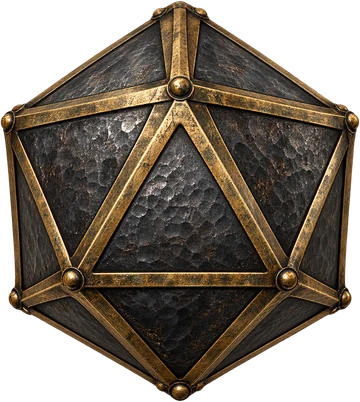
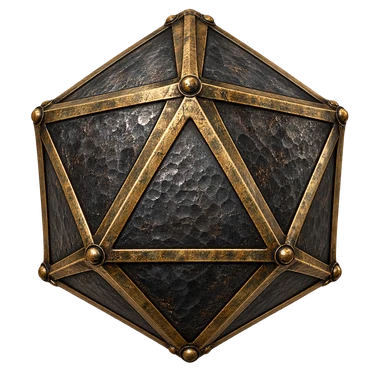
Natural 20 and natural 1 dice: the real art
The supplied gilded and cracked dice replace the CSS-filter stand-ins.
All three dice are cut in one shared frame (glow and flying debris
kept, specks dropped) so the swap to gold or cracked on landing doesn't
jump. The small dice in the log, party row and stat card use the same
art. The natural-1 number sits on a smaller disc so the crack shows
either side of it. Contrast check: all 58 pairs pass.

Claude-Session: https://claude.ai/code/session_01BByFsdMZntMmcGRcqkKvqi

diff --git a/public/index.html b/public/index.html
@@ -246,27 +246,26 @@
     opacity:0;transition:opacity .18s}
   .dice-stage.on{opacity:1}
   .dice-stage[hidden]{display:none}
-  .die{position:relative;width:150px;height:168px}
+  .die{position:relative;width:180px;height:176px}
   .die img{width:100%;height:100%;display:block;filter:drop-shadow(0 12px 16px rgba(0,0,0,.75))}
   .die .face{position:absolute;left:50%;top:53.4%;transform:translate(-50%,-50%);
     width:64px;height:64px;border-radius:50%;display:flex;align-items:center;justify-content:center;
     background:radial-gradient(circle,rgba(10,8,6,.86) 62%,rgba(10,8,6,0) 72%);
     font-family:'Cinzel',Georgia,serif;font-weight:700;font-size:34px;color:#F3D892;
     font-variant-numeric:tabular-nums;text-shadow:0 2px 3px #000}
-  .die .crack{position:absolute;inset:0;width:100%;height:100%;opacity:0;pointer-events:none}
   .die.tumble{animation:hff-tumble .9s cubic-bezier(.2,.75,.3,1)}
   @keyframes hff-tumble{0%{transform:translateY(-55vh) rotate(-620deg) scale(.55)}
     68%{transform:translateY(8px) rotate(14deg) scale(1.06)}84%{transform:translateY(-5px) rotate(-5deg) scale(.99)}
     100%{transform:none}}
-  .die.nat20 img{filter:sepia(1) saturate(2.4) brightness(1.18) hue-rotate(-6deg) drop-shadow(0 0 22px rgba(255,196,80,.95))}
+  /* gilded / cracked dice are their own art (d20-nat20 / d20-nat1.webp, same
+     frame as d20.webp), swapped in by rollStage() on landing */
+  .die.nat20 img{filter:drop-shadow(0 0 18px rgba(255,196,80,.8))}
   .die.nat20 .face{color:#FFF4CC}
   .die.nat20::before{content:'';position:absolute;inset:-60px;border-radius:50%;z-index:-1;
     background:radial-gradient(circle,rgba(255,200,90,.55),rgba(192,16,42,.25) 45%,rgba(0,0,0,0) 70%);
     animation:hff-burst .9s ease-out}
   @keyframes hff-burst{0%{transform:scale(.3);opacity:0}30%{opacity:1}100%{transform:scale(1.25);opacity:.85}}
-  .die.nat1 img{filter:grayscale(1) brightness(.5) contrast(1.15) drop-shadow(0 12px 16px rgba(0,0,0,.75))}
-  .die.nat1 .face{color:#FF5A6E}
-  .die.nat1 .crack{opacity:1}
+  .die.nat1 .face{color:#FF5A6E;width:50px;height:50px;font-size:28px}
   .die-label{font-family:'Cinzel',Georgia,serif;font-weight:700;font-size:20px;letter-spacing:.1em;
     min-height:1px;padding:0 14px;border-radius:3px;background:rgba(10,8,6,.85);color:#F3D892}
   .die-label:empty{display:none}
@@ -276,14 +275,14 @@
     45%{transform:translate(-5px,3px)}60%{transform:translate(4px,-2px)}75%{transform:translate(-2px,1px)}}
   /* small die for the log, party row and stat card */
   /* the art sits on ::before so the gilded/dead filters never touch the number */
-  .mini-d20{position:relative;display:inline-flex;align-items:center;justify-content:center;width:30px;height:33px;
+  .mini-d20{position:relative;display:inline-flex;align-items:center;justify-content:center;width:34px;height:33px;
     vertical-align:middle;font-family:'Cinzel',Georgia,serif;font-weight:700;font-size:12px;color:#F3D892}
   .mini-d20::before{content:'';position:absolute;inset:0;background:url("/assets/d20.webp") center/contain no-repeat}
   .mini-d20 b{position:relative;display:inline-flex;align-items:center;justify-content:center;min-width:19px;height:19px;
     border-radius:50%;background:rgba(10,8,6,.85);margin-top:3px}
-  .mini-d20.nat20::before{filter:sepia(1) saturate(2.4) brightness(1.15) drop-shadow(0 0 5px rgba(255,196,80,.9))}
+  .mini-d20.nat20::before{background-image:url("/assets/d20-nat20.webp")}
   .mini-d20.nat20 b{color:#FFF4CC}
-  .mini-d20.nat1::before{filter:grayscale(1) brightness(.6)}
+  .mini-d20.nat1::before{background-image:url("/assets/d20-nat1.webp")}
   .mini-d20.nat1 b{color:#FF6B7D}
   .ev.roll .amt{min-width:52px;display:flex;justify-content:flex-end}
   .ev.roll.nat20{background:#2A2110}
@@ -1279,6 +1278,9 @@ function scheduleNextArrival(){
 // no shake - the die just appears on its face.
 const REDUCED=matchMedia('(prefers-reduced-motion: reduce)').matches;
 const TIER_LABEL={nat20:'NATURAL 20',nat1:'NATURAL 1'};
+const DIE_ART={nat20:'/assets/d20-nat20.webp',nat1:'/assets/d20-nat1.webp'};
+// warm the cache so the gilded/cracked die swaps in on the landing frame
+Object.values(DIE_ART).forEach(src=>{const im=new Image();im.src=src;});
 let rolling=false,skipRoll=null;
 const miniDie=roll=>roll?`<span class="mini-d20 ${roll.tier}"><span class="vh">Rolled </span><b>${roll.face}</b></span>`:'';
 function countTo(el,to){
@@ -1298,6 +1300,7 @@ function rollStage(roll){
     const land=()=>{
       if(landed)return;landed=true;clearInterval(spin);
       die.classList.remove('tumble');die.classList.add(roll.tier);
+      if(DIE_ART[roll.tier])$('dieImg').src=DIE_ART[roll.tier];
       face.textContent=roll.face;
       lab.textContent=TIER_LABEL[roll.tier]||'';lab.className='die-label '+roll.tier;
       if(big&&navigator.vibrate)try{navigator.vibrate(roll.tier==='nat20'?[30,40,30,40,140]:[260]);}catch{}
@@ -1308,7 +1311,7 @@ function rollStage(roll){
       st.classList.remove('on');st.onclick=null;
       setTimeout(()=>{st.hidden=true;resolve();},REDUCED?0:180);
     };
-    die.className='die';face.textContent='';lab.textContent='';
+    die.className='die';face.textContent='';lab.textContent='';$('dieImg').src='/assets/d20.webp';
     st.hidden=false;void st.offsetWidth;st.classList.add('on');
     st.onclick=finish;skipRoll=finish;
     if(REDUCED){land();timers.push(setTimeout(finish,big?1400:900));return;}
@@ -1987,12 +1990,7 @@ show('week');
 </script>
 <div class="dice-stage" id="diceStage" hidden aria-hidden="true">
   <div class="die" id="dieBody">
-    <img src="/assets/d20.webp" alt="">
-    <svg class="crack" viewBox="0 0 150 168" aria-hidden="true"><g fill="none" stroke-linecap="round" stroke-linejoin="round">
-      <path d="M58 18 L70 52 L60 70 L78 96 L66 122 L84 150" stroke="#0A0806" stroke-width="5"/>
-      <path d="M58 18 L70 52 L60 70 L78 96 L66 122 L84 150" stroke="#9A8C70" stroke-width="1.4"/>
-      <path d="M78 96 L104 104 L118 128" stroke="#0A0806" stroke-width="4"/>
-      <path d="M78 96 L104 104 L118 128" stroke="#9A8C70" stroke-width="1.2"/></g></svg>
+    <img src="/assets/d20.webp" alt="" id="dieImg">
     <div class="face" id="dieFace"></div>
   </div>
   <div class="die-label" id="dieLabel"></div>

diff --git a/CLAUDE.md b/CLAUDE.md
@@ -246,9 +246,9 @@ throws `public/assets/d20.webp` center-screen. It tumbles about 0.9s while rando
 flicker, then lands on the real face. A natural 20 gilds and bursts, a natural 1 goes gray,
 cracks and shakes, and both buzz on Android. Then the unchanged commit math runs. Room HP
 counts down while a gold trail catches up. The log, the party row and the stat card keep a
-small die. Tap or Esc skips; reduced motion shows the face with no tumble or shake. The
-gilded and cracked dice are CSS filters plus an inline SVG crack for now, standing in until
-the dedicated art lands.
+small die. Tap or Esc skips; reduced motion shows the face with no tumble or shake. The gilded and cracked dice are their own art (`d20-nat20.webp`, `d20-nat1.webp`), cut in
+the same frame as `d20.webp` so the swap on landing doesn't jump. Sources are in
+`reference/assets/`.
 
 ## Guild comparison (decided)
 
